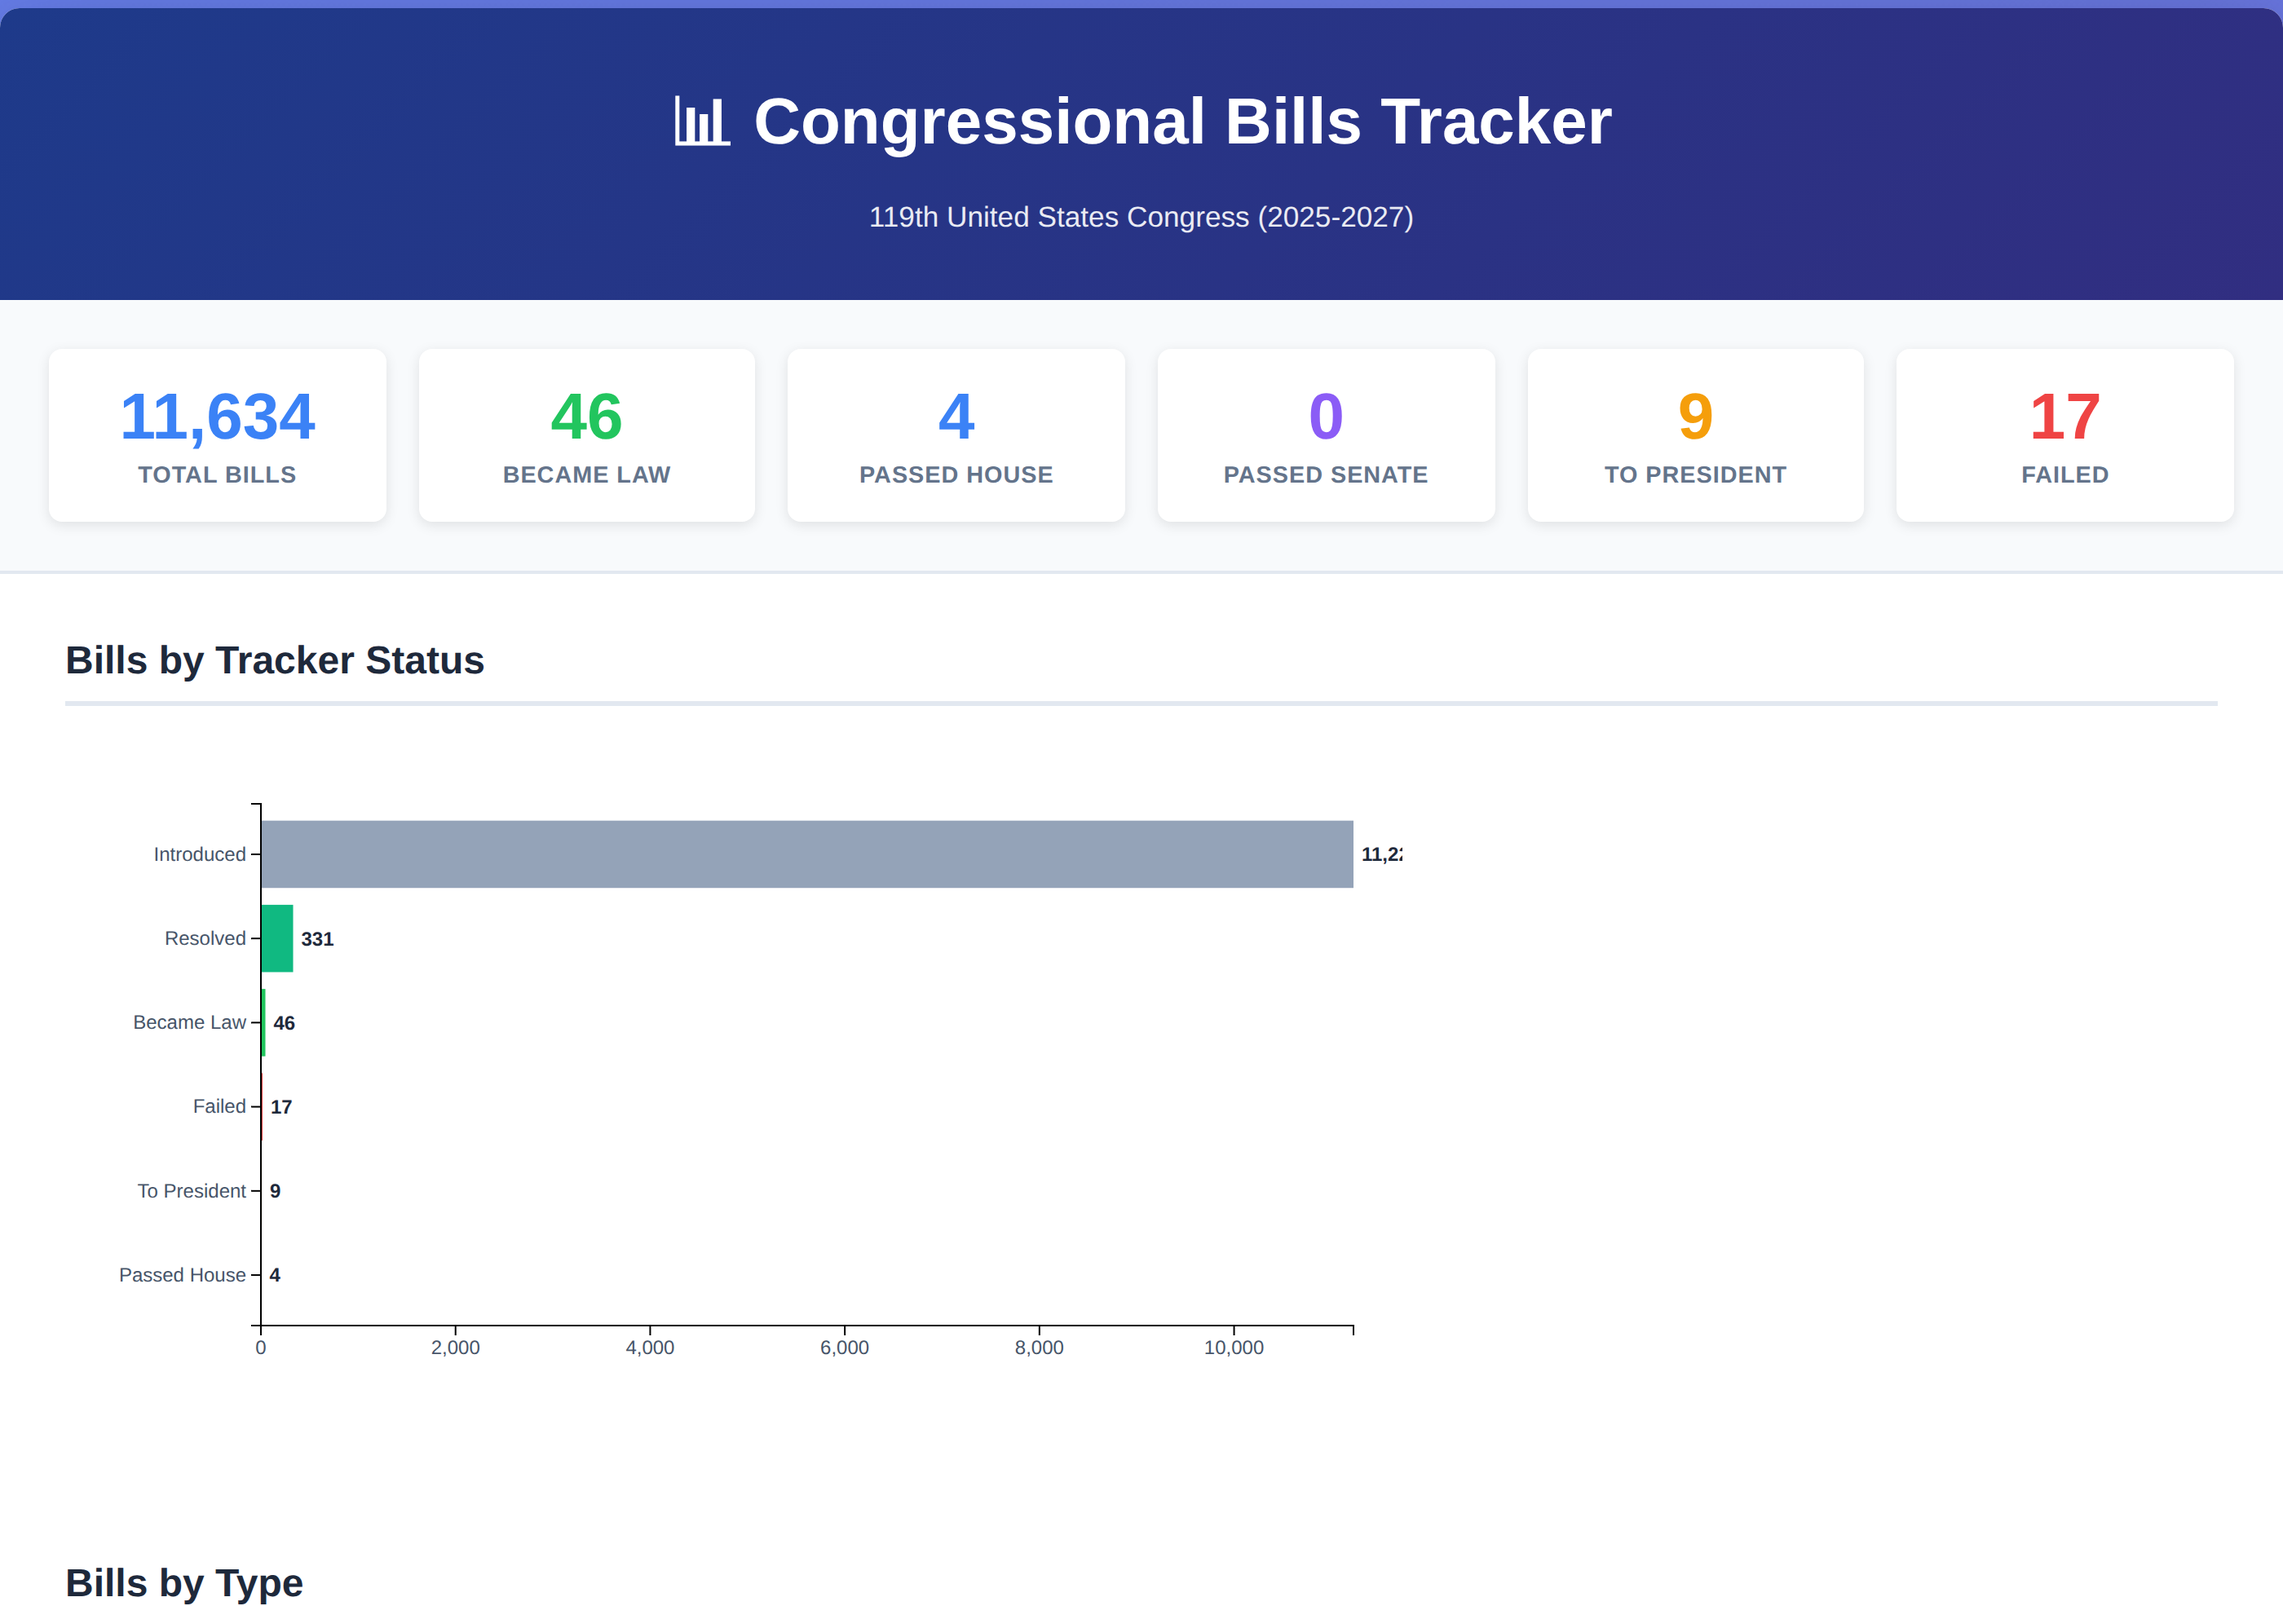
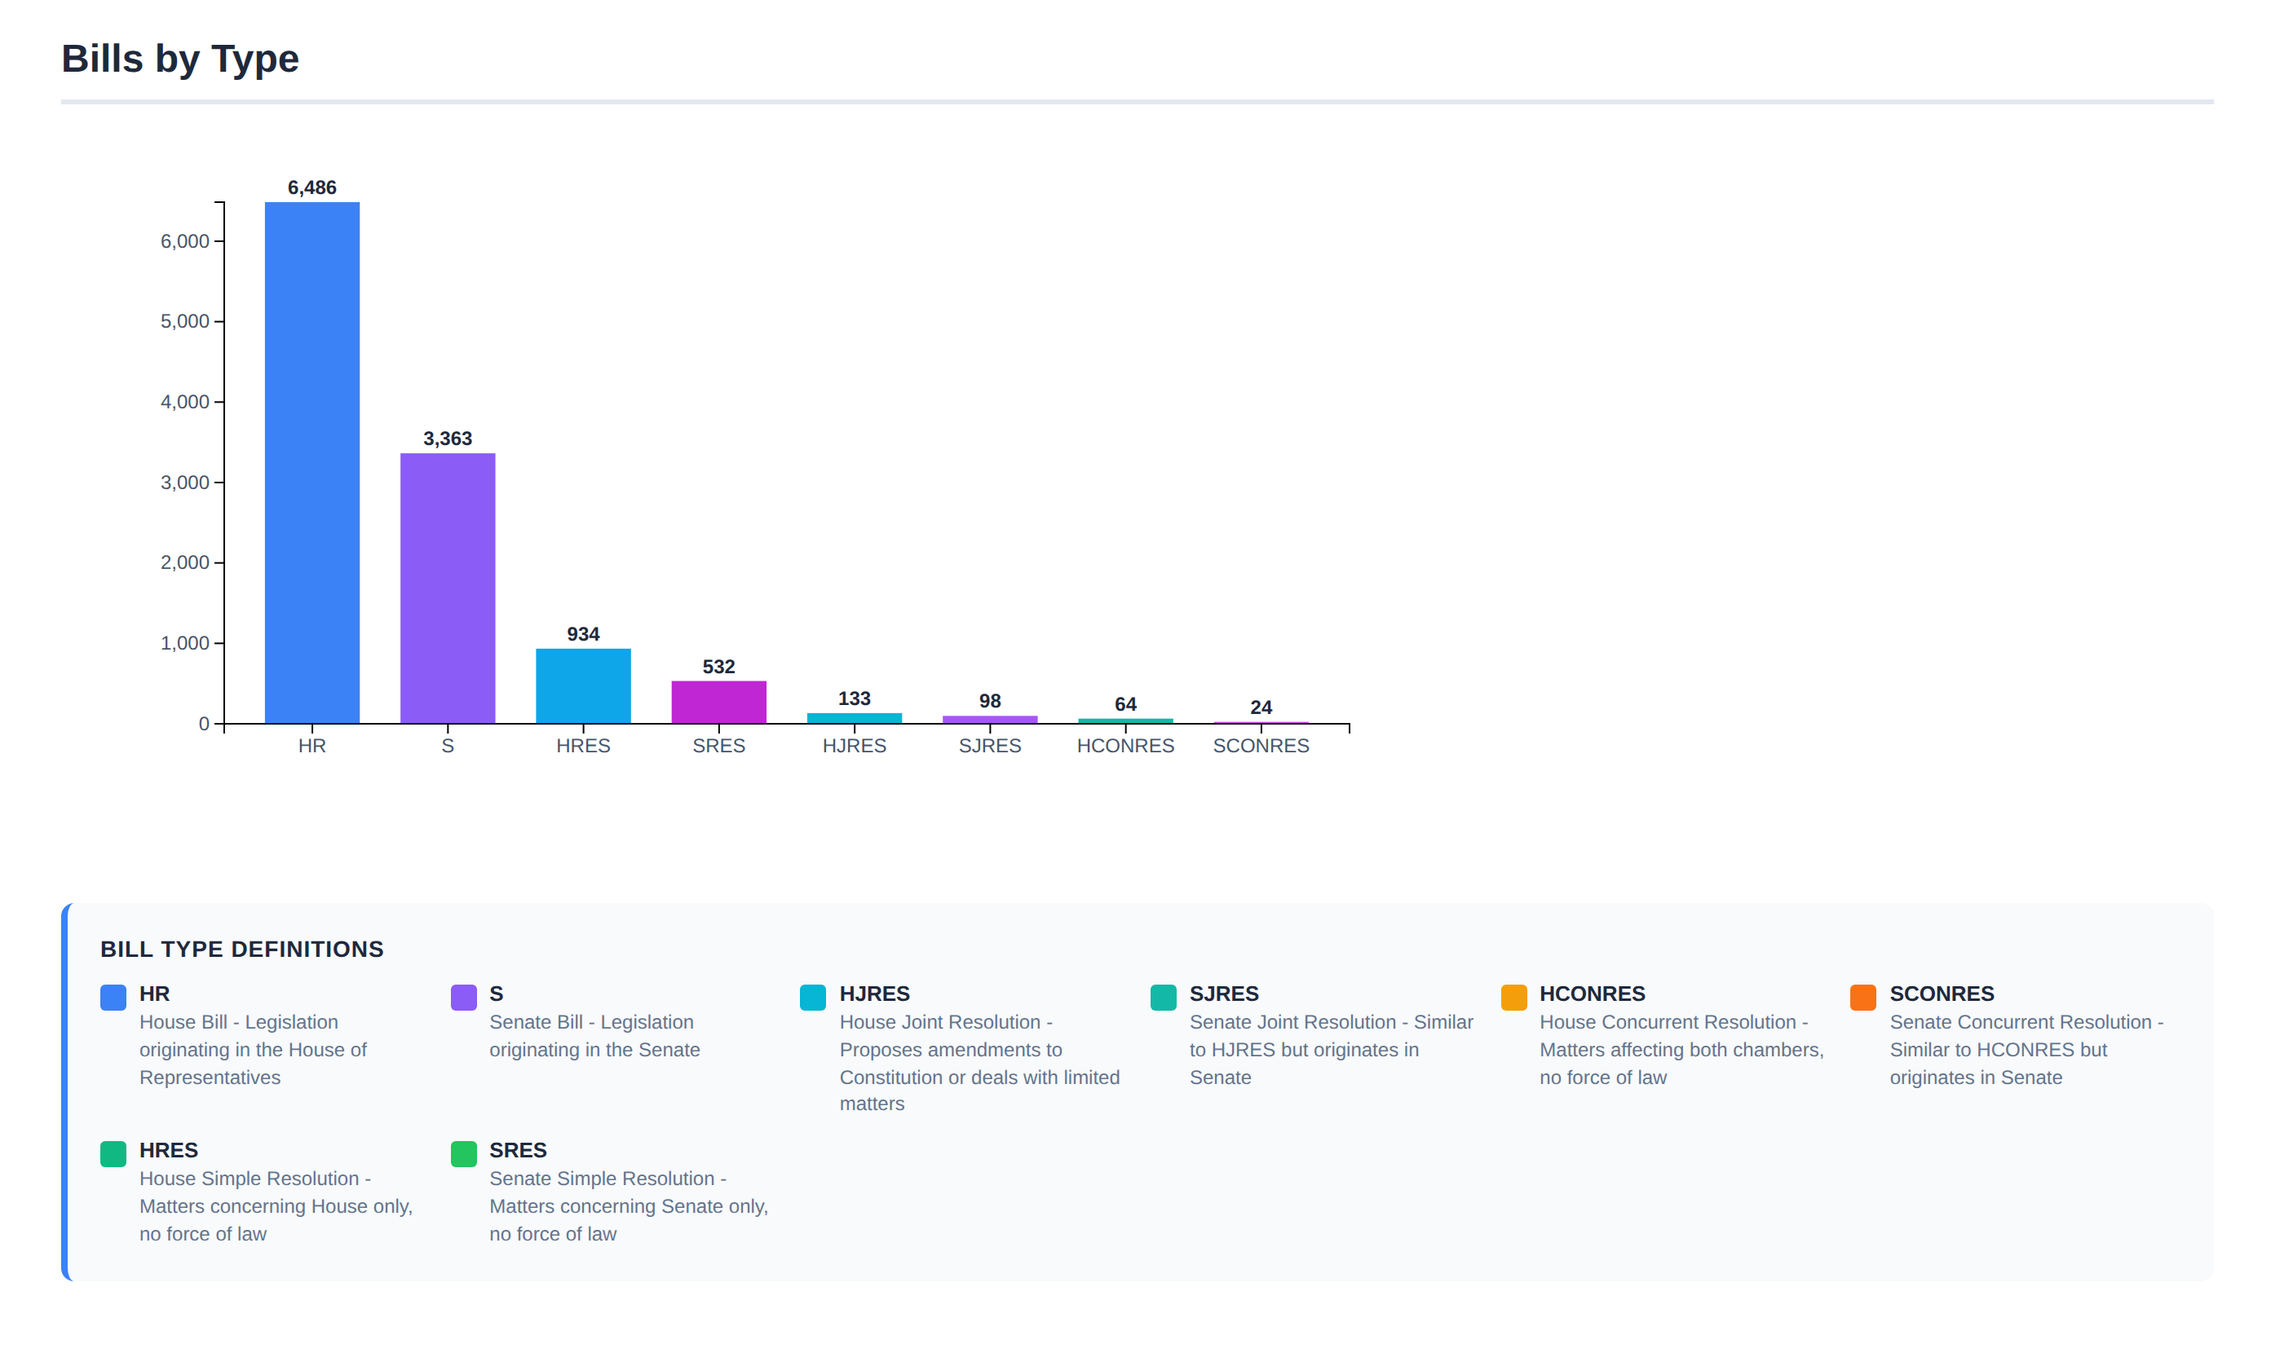
Bill tracker showcase: Bills by Type chart with legend

diff --git a/_projects/2_democracy_decoded.md b/_projects/2_democracy_decoded.md
@@ -24,7 +24,7 @@ category: ""
     </div>
 </div>
 <div class="caption">
-    The bill tracker: 11,634 bills of the 119th Congress by status and type — <a href="https://colinfrishberg.com/democracy-decoded/visualizations/congress_bill_tracker.html">explore it live</a>.
+    From the bill tracker: the 119th Congress's 11,634 bills by type — House bills dominate at 6,486, with an inline legend decoding every bill class from HR to SCONRES — <a href="https://colinfrishberg.com/democracy-decoded/visualizations/congress_bill_tracker.html">explore the full tracker live</a>.
 </div>
 
 **How it works.** Numbered Python pipeline scripts fetch member, bill, and vote data from the Congress.gov API (with caching and rate-limit courtesy), join it to GeoJSON congressional district boundaries, and emit 13 standalone interactive visualizations — Altair charts and D3 maps — including a district-level choropleth, a dual-chamber state map, a party-loyalty ranking, a bill tracker, and the generational dashboard above.
